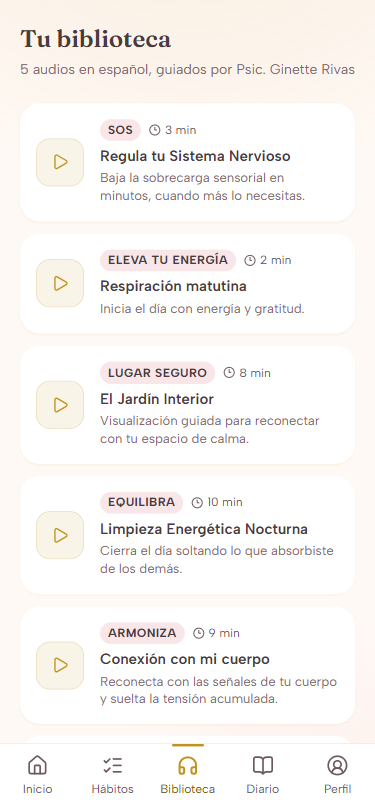
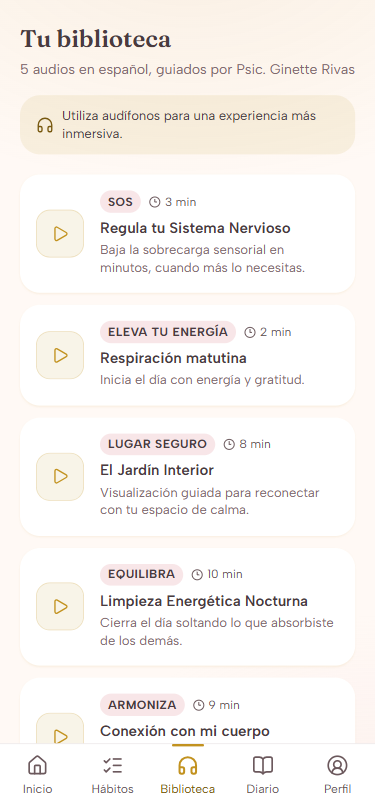
feat: actualiza la pagina de ventas (carrusel de 5 pantallas y planes) y la pantalla de planes

diff --git a/app/page.tsx b/app/page.tsx
@@ -92,9 +92,10 @@ export default function LandingRefugioPAS() {
         tituloMarked="Tu refugio, [acento]siempre a un toque[/acento]"
         frames={[
           { src: '/app-screens/arquetipo.png', alt: 'Pregunta del test de arquetipos de Refugio PAS', label: 'Descubre tu arquetipo PAS' },
-          { src: '/app-screens/inicio.png', alt: 'Pantalla de inicio de Refugio PAS con el Orbe que Respira', label: 'Tu Orbe que Respira, siempre visible' },
+          { src: '/app-screens/inicio.png', alt: 'Inicio de Refugio PAS con el Orbe S.O.S., tu ánimo del día y la frase del día', label: 'Tu Orbe, a un toque, incluso sin internet' },
+          { src: '/app-screens/habitos.png', alt: 'Hábitos de calma con la racha de 7 días y la semana completa', label: 'Hábitos con racha y los tuyos propios' },
+          { src: '/app-screens/diario.png', alt: 'Diario con el gráfico de intensidad de la semana y las entradas con su ánimo', label: 'Tu diario y tu intensidad, día a día' },
           { src: '/app-screens/biblioteca.png', alt: 'Biblioteca de audios de autohipnosis guiada en español', label: 'Audios de autohipnosis guiada en español' },
-          { src: '/app-screens/habitos.png', alt: 'Lista de hábitos saludables del día en Refugio PAS', label: 'Tus hábitos de calma, día a día' },
         ]}
         ctaLabel={CTA_LABEL}
         ctaHref={CTA_HREF}
@@ -169,11 +170,11 @@ export default function LandingRefugioPAS() {
           ctaHref: `${CTA_HREF}?plan=anual`,
           features: [
             'Incluye 7 días de prueba gratis',
-            'Tu Orbe que Respira, siempre disponible',
-            'Biblioteca completa de audios de autohipnosis',
+            'Tu Orbe que Respira, incluso sin internet',
+            'Biblioteca de audios de autohipnosis guiada',
             'Un audio nuevo cada mes, sin costo extra',
-            'Los 4 módulos de tu proceso PAS',
-            'Diario y seguimiento de hábitos de calma',
+            'Hábitos con racha, recordatorio suave y hábitos propios',
+            'Diario con tu intensidad y los 4 módulos de tu proceso PAS',
           ],
         }}
         mensual={{
@@ -183,9 +184,10 @@ export default function LandingRefugioPAS() {
           ctaHref: `${CTA_HREF}?plan=mensual`,
           features: [
             'Acceso completo desde el primer día',
-            'Tu Orbe que Respira, siempre disponible',
-            'Biblioteca completa de audios de autohipnosis',
+            'Tu Orbe que Respira, incluso sin internet',
+            'Biblioteca de audios de autohipnosis guiada',
             'Un audio nuevo cada mes, sin costo extra',
+            'Hábitos, diario y los 4 módulos de tu proceso PAS',
             'Cancelas cuando quieras',
           ],
         }}

diff --git a/app/paywall/page.tsx b/app/paywall/page.tsx
@@ -47,7 +47,7 @@ const MOMENTO_LABEL: Record<string, string> = {
 // autorregularte?") se ordena PRIMERO: el paywall responde exactamente lo que pidió
 // (LA ESCALERA de 02B — el paywall muestra la inversión del onboarding en el momento del precio).
 const BENEFICIOS: Record<'sos' | 'nocturno' | 'lecciones', string> = {
-  sos: 'Baja la sobrecarga en 2 minutos, cada vez que la sientas',
+  sos: 'Baja la sobrecarga en 2 minutos, incluso sin internet',
   nocturno: 'Audios guiados para soltar el día y dormir en paz',
   lecciones: 'Lecciones cortas para entender y cuidar tu sensibilidad',
 };
@@ -362,6 +362,12 @@ function PantallaPrecio({ onEmpezar, onAhoraNo }: { onEmpezar: (plan: 'anual' | 
           >
             Ahora no
           </button>
+        </p>
+        <p className="text-center text-[14px] text-[var(--text-secondary)]">
+          ¿Ya compraste?{' '}
+          <a href="/entrar" className="inline-flex min-h-11 items-center font-semibold text-[var(--accent-ink)] underline underline-offset-4 outline-none focus-visible:ring-2 focus-visible:ring-[var(--accent)]">
+            Entra aquí
+          </a>
         </p>
       </div>
     </>

diff --git a/ESTADO.md b/ESTADO.md
@@ -212,3 +212,4 @@ Completar el Test de Arquetipos (3 min), descubrir su arquetipo, y escuchar un a
 - DIARIO: INTENSIDAD (2026-10-18, error reportado por la dueña: "la escala se devuelve a 5, no guarda los cambios diarios"): el número SÍ se guardaba pero no se mostraba en ningún lado, y al salir sin guardar se perdía lo movido. AHORA: cada entrada muestra "Intensidad N/10"; tarjeta "Tu intensidad esta semana" (barras L-D con el último valor de cada día, solo entradas propias local-*); borrador (ánimo, intensidad, texto) guardado solo en localStorage `refugio-diario-borrador` y restaurado al volver; mensaje "Entrada guardada…" al guardar. La escala vuelve a 5 SOLO tras pulsar Guardar (para empezar otra entrada), por diseño. PROBADO en pantalla con página temporal ya borrada: mover a 8 → borrador 8; guardar → entrada Intensidad 8/10 + barra 8 hoy; recargar → escala en borrador 9, entrada y gráfico intactos. Pendiente: al pasar el diario a Supabase (journal_entries ya tiene intensidad) migrar esto.
 - DIARIO: EMOJI POR DÍA EN EL GRÁFICO (2026-10-18, pedido de la dueña): las barras de "Tu intensidad esta semana" son botones; al tocar una se muestra debajo el emoji del ánimo de ese día + nombre del día + ánimo + "Intensidad N/10" (por defecto, hoy). Días sin registro: barra deshabilitada con punto. Accesible: aria-label por barra y aria-pressed. PROBADO con página temporal ya borrada (4 entradas con ánimos distintos: cada toque mostró el emoji y ánimo correctos). Si hay varias entradas el mismo día se muestra la última.
 - NOVEDADES (opción 1 de la dueña, 2026-10-18): área de anuncios dentro de la app. BD (migraciones 0004, aplicada): admins, anuncios (título ≤80, mensaje ≤600, enlace solo https, botón ≤30, audiencia todos|anual, fecha_evento, activo), anuncio_lecturas; RLS: anuncios solo los activos que le tocan (anual solo con plan anual), solo el servidor escribe. Dueña = admin (podcastcodigosdeluz@gmail.com). Código: lib/novedades.ts, components/app-interna/CampanaNovedades.tsx (campanita con contador en el encabezado de Inicio), app/app/novedades/page.tsx (lista, "Nuevo", fecha del evento, botón con enlace; marca como leído), app/app/admin/page.tsx (panel privado: formulario + archivar/republicar) + app/api/admin/anuncios (GET/POST/PATCH; exige estar en `admins`; valida https y largos), acceso "Panel de anuncios" en Perfil solo para admins. DECISIÓN: la audiencia se elige por anuncio (todas / solo plan anual). PROBADO en la base: dueña ve todos+anual (no archivados); persona sin plan anual solo "todos"; persona normal NO puede crear anuncios ni hacerse admin; pruebas revertidas (0 restos). NO PROBADO en pantalla (requiere sesión): publicar desde el panel, campanita con contador, marcar leídos → probar en el celular. FUTURO: aviso push opcional al publicar (permiso aparte) cuando haya el primer taller.
+- ACTUALIZACIÓN GENERAL (2026-10-18, pedido de la dueña "actualiza todo"): AUDITORÍA → onboarding (recorrido de inicio) revisado: su contenido no menciona nada cambiado, sin cambios. LANDING: carrusel "La app por dentro" ahora de 5 cuadros con la app actual (arquetipo, inicio con campanita y aviso de audífonos, hábitos con racha de 7 días + hábitos propios, DIARIO con gráfico de intensidad [nuevo: public/app-screens/diario.png], biblioteca con nota de audífonos); capturas hechas con páginas temporales fuera de la zona protegida + datos de ejemplo (el candado de /app NO se tocó; una propuesta de saltarlo en localhost fue rechazada y no se hizo). Lista de beneficios de planes actualizada (Orbe incluso sin internet; hábitos con racha, recordatorio suave y propios; diario con intensidad + 4 módulos) y docs/copy/landing.md sincronizado. PAYWALL: beneficio 1 "incluso sin internet" + enlace "¿Ya compraste? Entra aquí" → /entrar. Verificado a 375px (carrusel, plan anual, paywall paso 2). ⚠ PENDIENTES QUE NO SE PUEDEN CERRAR SIN LA DUEÑA: (1) producto en Hotmart + 2 URLs de checkout (NEXT_PUBLIC_HOTMART_CHECKOUT_ANUAL/_MENSUAL) → hoy el botón del paywall lleva a /entrar, que NO deja registrarse sin compra; (2) páginas legales del pie (/privacidad, /terminos, /reembolsos, /aviso-ia) NO existen (404); la app no usa IA, evaluar quitar "Aviso de IA"; (3) correo de soporte y dominio propio (soporte@refugiopas.com es placeholder); (4) audios de la Biblioteca aún sin grabar; (5) los 3 veredictos de revisor-visual siguen NO LISTA.

diff --git a/docs/copy/landing.md b/docs/copy/landing.md
@@ -146,14 +146,14 @@ protocolo propio, no una app más de meditación — y **el Orbe que Respira** l
   totalAnual "Se cobra $59.88/año" ·
   ahorro "Ahorras 4 meses" (12 − 59.88/7.99 ≈ 4.5, redondeado hacia abajo) · descomposicionDia
   "menos de $0.17 al día" · ctaLabel "Empezar mi prueba de 7 días gratis" · features (la 1ª: "Incluye 7 días de prueba gratis"; el mensual NO lleva prueba):
-  - "Tu Orbe que Respira, siempre disponible"
-  - "Biblioteca completa de audios de autohipnosis"
+  - "Tu Orbe que Respira, incluso sin internet"
+  - "Biblioteca de audios de autohipnosis guiada"
   - "Un audio nuevo cada mes, sin costo extra"
   - "Los 4 módulos de tu proceso PAS"
-  - "Diario y seguimiento de hábitos de calma"
+  - "Hábitos con racha, recordatorio suave y hábitos propios · Diario con tu intensidad y los 4 módulos de tu proceso PAS"
 - `mensual`: precioMes "$7.99" · ctaLabel "Empezar con el plan mensual" · features:
-  - "Tu Orbe que Respira, siempre disponible"
-  - "Biblioteca completa de audios de autohipnosis"
+  - "Tu Orbe que Respira, incluso sin internet"
+  - "Biblioteca de audios de autohipnosis guiada"
   - "Un audio nuevo cada mes, sin costo extra"
   - "Acceso completo desde el primer día"
   - "Cancelas cuando quieras"
